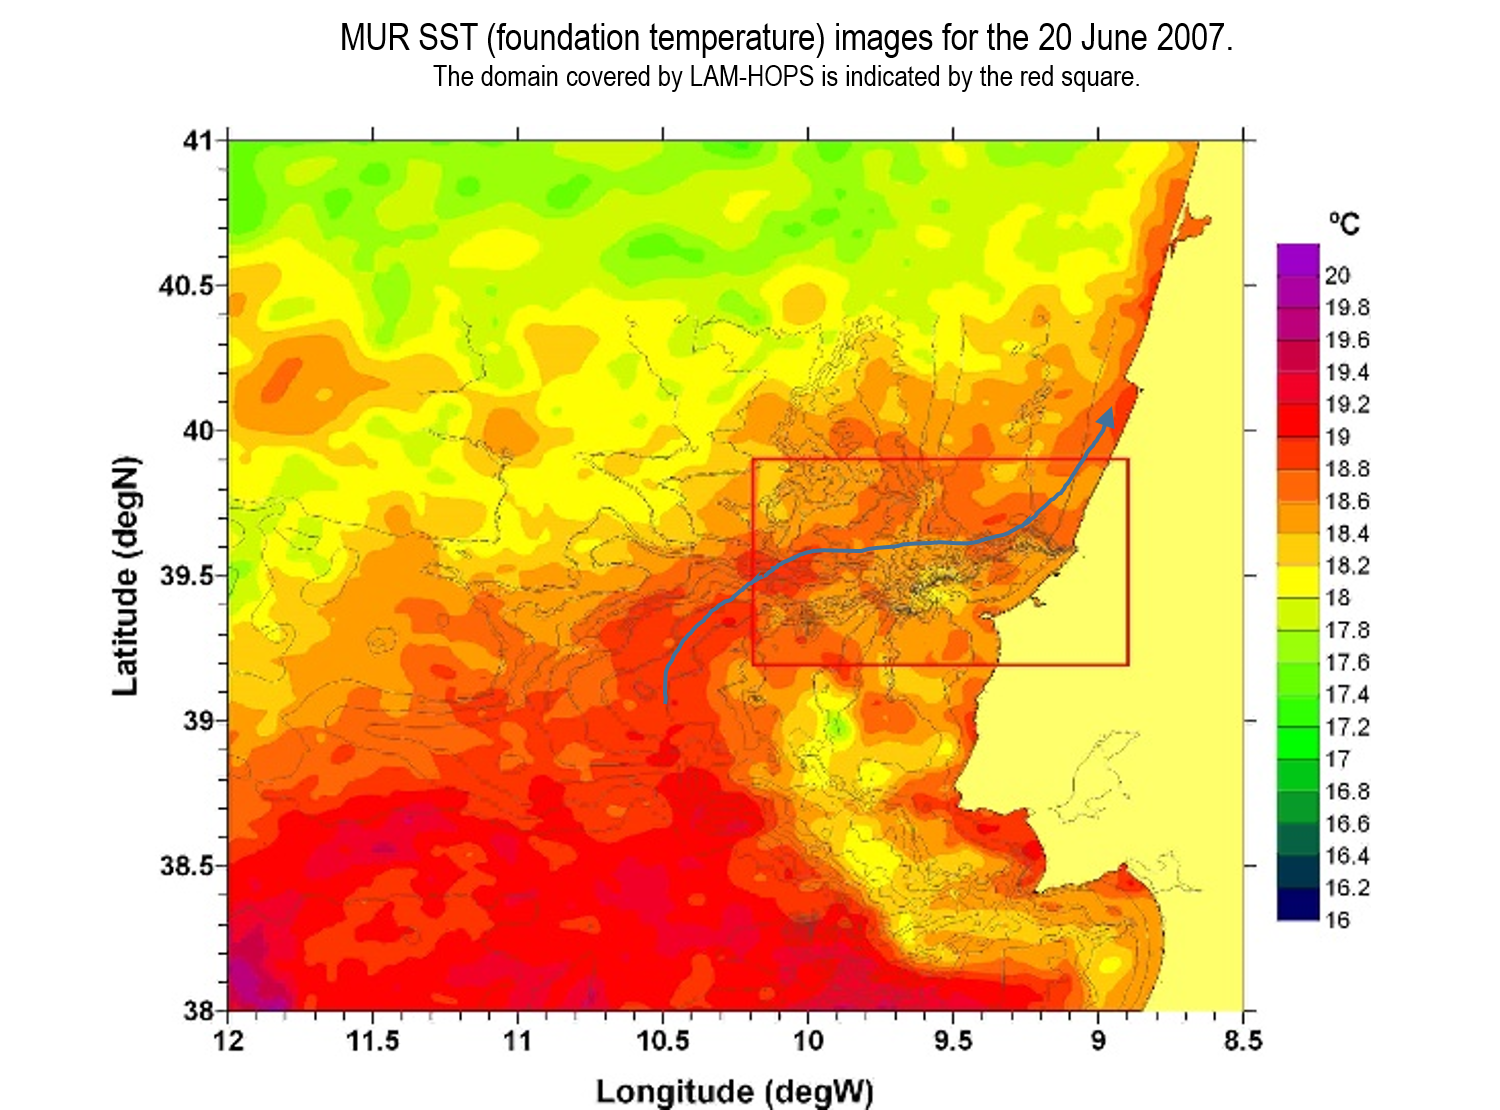
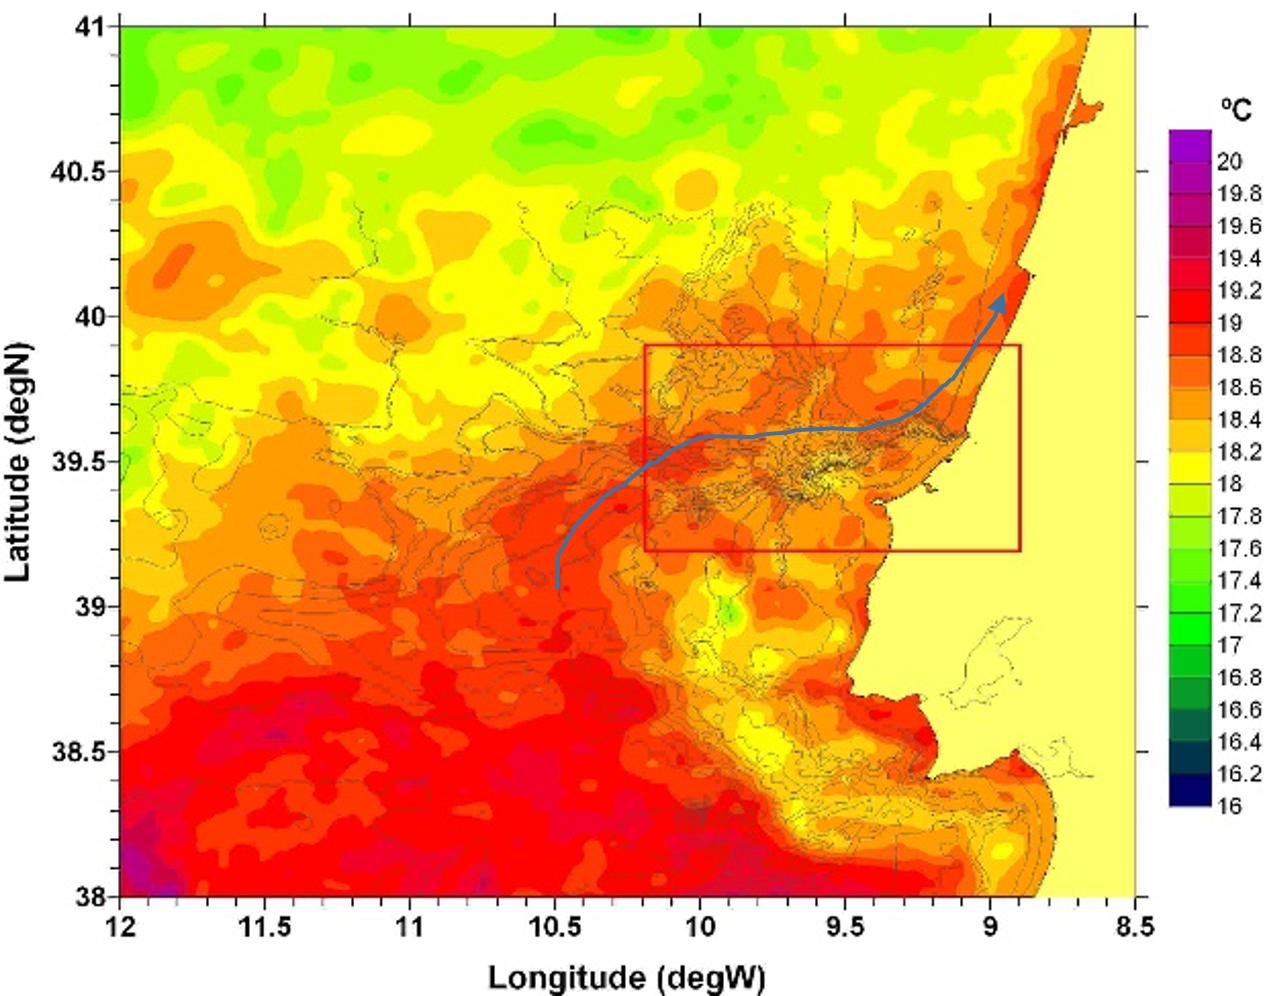
updates

diff --git a/mgmt.tex b/mgmt.tex
@@ -2,16 +2,15 @@
 
 This collaborative effort is in part to advance our understanding of
 the bio-geophysical processes in the \naz area, while advancing the
-observational technology and capacity in the coastal ocean. 
-
-\proj will be managed by the PI (Rajan, a US national) working closely
-with the collaborators from the \texttt{Univ. of Porto},
-\texttt{Instituto Hidrogr\'{a}fico}, \texttt{Univ. of Aveiro},
-\texttt{Columbia Univ.}, \texttt{MIT} and \texttt{SOCIB}.  All key
-personnel have known and worked with one another, most over a decade,
-some at sea. \univ will be the prime, where the PI has a Visiting
-Professor position. The roles and responsibilities of the key
-personnel are shown in Table \ref{tab:roles}.
+observational technology and capacity in the coastal ocean.  \proj
+will be managed by the PI (Rajan, a US national) working closely with
+the collaborators from the \texttt{Univ.~of Porto}, \texttt{Instituto
+  Hidrogr\'{a}fico}, \texttt{Univ.~of Aveiro}, \texttt{Columbia
+  Univ.}, \texttt{MIT} and \texttt{SOCIB}.  All key personnel have
+known and worked with one another, most over a decade, some at
+sea. \univ will be the prime, where the PI has a Visiting Professor
+position. The roles and responsibilities of the key personnel are
+shown in Table \ref{tab:roles}.
 
 \begin{table}[!t]
   \centering
@@ -55,36 +54,79 @@ personnel are shown in Table \ref{tab:roles}.
 organization, provide aerial, surface and underwater vehicles,
 communication equipment and command/control software while
 coordinating all activities. Funding requested will primarily support
-students and staff in Porto for software development and operations.
-\inst will provide the assimilation, modeling and prediction with
-shore-side models. In addition \inst will conduct CTD and vessel
-mounted observations onboard the research vessel and also provide
-access to their research vessel as well as a RHIB or rigid boat. \mit
-will support \inst for \texttt{HOPS} modeling and augmentation for ML
-capabilities. \colo and \ave will work on making bio-optical and
-biological measurements and providing analysis and data to augment
-\inst modeling. Table \ref{tab:roles} summarizes the roles and
-contributions of all partners.
+students and staff in Porto for the period of the experiment for
+$\sim 20$ days. \inst will provide the assimilation, modeling and
+prediction with shore-side models. In addition \inst will conduct CTD
+and vessel mounted observations onboard the research vessel and also
+provide access to their research vessel as well as a RHIB or rigid
+boat. \mit will support \inst for \texttt{HOPS} modeling and
+augmentation for ML capabilities. \colo and \ave will work on making
+bio-optical and biological measurements and providing analysis and
+data to augment \inst modeling. Table \ref{tab:roles} summarizes the
+roles and contributions of all partners.
 
+\paragraph{Budget Request} Our funding request is highly leveraged
+with equipment and people who are keen on participating in this
+experiment. No salaries, or expensive ship-times are being requested,
+instead using existing assets which will be in the \naz area for fixed
+periods of time. Consequently, our budget reflects costs for
+consumables, insurance, SatComs, and travel only. \univ is the primary
+beneficiary of this request with minor requests for \inste, \avee,
+\colo (Table \ref{tab:budget}). No funding is being requested for
+\mit or \soce.
 
-\subsection{Current Pending Project and Proposal Submissions}
+\begin{table}[!t]
+  \centering
+  % \vspace{-0.5cm}
+  \footnotesize{
+  \begin{tabular}{|p{3.3cm}|p{1.3cm}|p{1.4cm}|p{8cm}|}
+    % \multicolumn{1}{l}{r}{l}
+    \hline 
+    \rowcolor{Gray}
+    \bfseries Item& \bfseries Inst.&\bfseries Cost (\$) &\bfseries Comment\\
+    \hline
+    Small-boat rental&\univ&16,958&19-day rental\\
+    \hline
+    Semi-rigid small-boat&\inst&1,785&\inst small-boat transported
+                                       from Lisbon for ops with
+                                       research vessel\\
+    \hline    
+    Insurance (AUVs)&\univ&31,654&Insurance costs for 7 AUVs\\
+    \hline
+    Insurance (UAVs)&\univ&1,190&Insurance costs for 2 UAVs\\
+    \hline
+    Lodging&\univ&7,616&Costs for lodging in \naz area 8 personnel for 20 days\\
+    \hline
+    Subsistence&\univ&11,424&Costs for subsistence in \naz area for 8
+                              personnel for 20 days\\
+    \hline
+    Communication costs&\univ&11,870&SatComs for AUVs for 19
+                                      operational days\\
+    \hline
+    Rental Cars&\univ&7,140&Rental cars/vans for transporting
+                             equipment from Porto\\
+    \hline
+    Gas \& Tolls&\univ&1,179&\\
+    \hline
+    Consumables&\univ&10,710&\\
+    \hline    
+    Cellular Comms&\univ&893&\\
+    \hline    
+    Sample Processing&\ave&5,950&Biological water sample processing
+                                  during and post-experiment\\
+    \hline    
+    Sample Processing&\inst&1,190&Consumables for BGC water sample
+                                   analysis at \inst\\
+    \hline    
+    Travel from US&\colo \& \org&4,046&Travel from US and lodging for
+                                         Subramaniam \& Rajan\\
+    \hline
+    \multicolumn{1}{|r|}{\textbf{Total}}&&113,605&\\
+    \hline    
+  \end{tabular}
+  \caption{Budget details for \proj field experiment in USD.}
+  \label{tab:budget}
+}
+\end{table}
 
-No proposals related to \proj have been submitted to any US government
-agency. However, this proposal is in part to demonstrate a portion of
-a much larger concept in the form of the \met project\footnote{See US
-  National Academies 'Ocean Shot' presentation at
-  \url{https://vimeo.com/510346249}} which is being proposed to
-private philanthropies for funding. \met aims to provide a new
-paradigm of portable coastal ocean observation using space, aerial,
-surface and underwater vehicles, coupled to assimilative models.
-
-\subsection{Relevant Experience}
-
-% A description of the Offeror's Government contracts (both prime and
-% major subcontracts) received during the past three (3) years, which
-% are similar in nature to the effort being proposed.  Include contract
-% number and the name, phone number and email address of the technical
-% point of contact.  If necessary, add additional rows.
-
-The PI and co-PI do not have any current US govt. contracts or have
-had any US govt. contracts during the past 3 years.
+\input{ops}

diff --git a/ops.tex b/ops.tex
@@ -1,6 +1,4 @@
-\subsection{\proj Operations}
- 
-% Real-time monitoring systems:
+\subsection{Operational setting for \proj}
 
 Off shore in the \naz canyon-Berlengas area are two islands of Berlengas
 and Farilho\~es part of a protected nature preserve. With special
@@ -10,15 +8,20 @@ present onboard the \inst research vessel (Fig. \ref{fig:vessel}) where
 if needed, deployment and recovery of assets well off shore at the
 boundaries of the survey region, can be done. In addition \inst will be
 in a position to provide a RHIB or a rigid boat for near-shore
-operations from the two islands.
+operations from the two islands. \univ will provide the bulk of the
+robotic assets including aerial, surface and underwater vehicles as also
+the team to operate them. The team will be split between being based in
+Berlengas, the research vessel and also provide remote monitoring from
+Porto. \soc will provide at least one glider to operate outside the
+shelf to augment model observations in the meso-scale.
 
-\univ will provide the bulk of the robotic assets including aerial,
-surface and underwater vehicles as also the team to operate them. The
-team will be split between being based in Berlengas, the research vessel
-and also provide remote monitoring from Porto. \soc will provide at
-least one glider to operate outside the shelf to augment model
-observations in the meso-scale.
-
+% \begin{wrapfigure}{!h}{3.2in}
+%   \centering
+%   \includegraphics[scale=1.75]{fig/dom-carlos.jpg}
+%   \caption{A 70m research vessel, the NRP \emph{Dom Carlos} or its
+%     sister vessel will be available for \proje.}
+%  \label{fig:vessel}
+% \end{wrapfigure}
 
 \proj will leverage existing real-time monitoring capacities which were
 installed and are operated by Instituto Hidrogr\'{a}fico (\inste). These
@@ -32,15 +35,6 @@ time from one of the \inst research vessels which visit the \naz area
 for buoy maintenance twice yearly. \inst will provide access to this
 vessel where a small \proj team will be resident, in addition to those
 being housed in the Berlengas island.
-
-\begin{wrapfigure}{!h}{3.2in}
-  \centering
-  \includegraphics[scale=1.75]{fig/dom-carlos.jpg}
-  \caption{A 70m research vessel, the NRP \emph{Dom Carlos} or its
-    sister vessel will be available for \proje.}
- \label{fig:vessel}
-\end{wrapfigure}
-
 
 Each multiparametric buoy is equipped with:
 
@@ -86,7 +80,6 @@ inspired by the Rapid Environmental Assessment to navy operations
 \kc{citation?}. A summary of roles, tasks and activities of different
 elements in the project is summarized in Table \ref{tab:tasks}. A total
 of three phases (weeks 1 to 3) are planned:
-
 
 \begin{figure}[!t]
   \vspace{-0.5cm}
@@ -409,7 +402,6 @@ the \naz area for servicing buoys in that order:
 
 \end{itemize}  
 
-
 \paragraph{COVID protocol} As per standard oceanographic cruise
 protocol in current circumstances, we will follow the guidance of WHO
 and the US CDC; all personnel will isolate 5 days before the
@@ -418,3 +410,28 @@ pod. Those onboard the \inst research vessel will follow Portuguese
 Navy guidelines and also isolate prior to the cruise and have no
 contact with shore based personnel during the course of the
 experiment.
+
+
+\subsection{Current Pending Project and Proposal Submissions}
+
+No proposals related to \proj have been submitted to any US government
+agency. However, this proposal is in part to demonstrate a portion of
+a much larger concept in the form of the \met project\footnote{See US
+  National Academies 'Ocean Shot' presentation at
+  \url{https://vimeo.com/510346249}} which is being proposed to
+private philanthropies for funding. \met aims to provide a new
+paradigm of portable coastal ocean observation using space, aerial,
+surface and underwater vehicles, coupled to assimilative models.
+
+\subsection{Relevant Experience}
+
+% A description of the Offeror's Government contracts (both prime and
+% major subcontracts) received during the past three (3) years, which
+% are similar in nature to the effort being proposed.  Include contract
+% number and the name, phone number and email address of the technical
+% point of contact.  If necessary, add additional rows.
+
+The PI and co-PI do not have any current US govt. contracts or have
+had any US govt. contracts during the past 3 years.
+
+

diff --git a/outreach.tex b/outreach.tex
@@ -1,6 +1,6 @@
 \section{Outreach}
 
-\univ has had continued and extensive engagement over the years with the
+\inst has had continued and extensive engagement over the years with the
 local authorities including the \naz city officials and local fishermen.
 As a result we will engage the fishing community to carry our low cost
 temperature/density sensors and also help provide access to the team to
@@ -11,21 +11,21 @@ careers in science and technology, much as we have done in the past with
 success in another ONR funded
 program~\footnote{\url{https://sunfish.lsts.pt/en/outreach/education}}.
 
-With the world-wide interest in the area \proj will also work with the
-local authorities and \univ to showcase our work in Portuguese and
-English language media outlets. We will invite ONR sponsors and other
-ocean science sponsors from the US in the government and private
-philanthropies to observe the field experiment in-person if possible. We
-are also investigating ways in which portions of the experiment can be
-livestreamed and uploaded to Youtube. Imagery will be uploaded to
-Twitter, Facebook and Instagram as is routine at the \ls
-lab~\footnote{See \url{https://lsts.pt}} with appropriate context in
-both the Portuguese and English.
+With the world-wide interest in the \naz area, \proj will also work
+with the local authorities and \univ outreach department to showcase
+our work in Portuguese and English language media outlets. We will
+invite ONR and other ocean science sponsors from the US and government
+and private philanthropies to observe the field experiment, in-person
+if possible. We are also investigating ways in which portions of the
+experiment can be livestreamed and made available via Youtube. Imagery
+will be uploaded to Twitter, Facebook and Instagram as is routine at
+the \ls lab~\footnote{See \url{https://lsts.pt}} with appropriate
+context in both the Portuguese and English.
 
 Finally, publications resulting from the project will be targeted
 towards peer-reviewed journals including \emph{Science Robotics,
   J. Field Robotics, Int. J. of Robotics Research, AI Journal,
   Autonomous Robots, Oceanography, PLOSone, Frontiers} and high-impact
 conferences such as \emph{AAAI, IJCAI, ISER, ICAPS, RSS, IROS, ICRA
-  and IEEE AUV} where we have frequently published.
+  and IEEE AUV} where we have published frequently.
 

diff --git a/physics.tex b/physics.tex
@@ -1,14 +1,15 @@
 \subsection{Physics}
 
 \begin{wrapfigure}{!b}{4.0in}
-\vspace{-0.5cm}
-  \centering
-  \includegraphics[scale=0.40]{fig/model.jpeg}
-  \label{fig:model}
-  \caption{Predictions of currents and temperature at 10m depth from
-  a \texttt{HOPS} (Harvard Ocean Prediction System) model with
-  assimilation of temperature and salinity measurements collected by
-  CTD profiles and current-meters.}
+  \vspace{-0.5cm} \centering \subfigure[Predictions of currents and
+  temperature at 10m depth from a \texttt{HOPS} (Harvard Ocean
+  Prediction System) model with assimilation of temperature and
+  salinity measurements collected by CTD profiles and
+  current-meters.]{\label{fig:model}\includegraphics[scale=0.40]{fig/model.jpeg}}
+  \subfigure[MUR SST image for June 20\textsuperscript{th} 2007. The
+  red rectangle covers the area to be modeled in
+  HOPS.]{\label{fig:SST}\includegraphics[scale=0.40]{fig/SST-Nazare.png}}
+  \caption{}
 \vspace{-0.5cm}
 \end{wrapfigure}
 

diff --git a/background.tex b/background.tex
@@ -198,7 +198,10 @@ can be sustained in time leading to persistent upwelling conditions
   \caption{\subref{fig:po-map} \& \subref{fig:domain} show detailed
     views of the proposed study area for \proje off the coast of
     mainland Portugal. The \naz Canyon is a significant feature of
-    this area and a driver for the bio-geophysics of the domain.}
+    this area and a driver for the bio-geophysics of the domain. The
+    shaded blue area is the expected glider operations region which
+    will inform the model about boundary conditions and off-shore
+    waters being entrained into the canyon.}
   \label{fig:studyarea-1}
 \end{figure}
 

diff --git a/ai.tex b/ai.tex
@@ -35,7 +35,7 @@ underwater platforms with embedded or off-shore decision-making
 capacity which focus on the sense-plan-act control loop embedded on
 autonomous vehicles.
 
-\begin{table}[!b]
+\begin{table}[!t]
   \centering
   \footnotesize{
   \begin{tabular}{|p{1.8cm}|p{12.8cm}|p{0.75cm}|}\hline 

diff --git a/FRESNEL-21.tex b/FRESNEL-21.tex
@@ -15,8 +15,6 @@
 \input{background}
 \input{science}
 \input{mgmt}
-% \input{sow}
-\input{ops}
 \input{outreach}
 
 \bibliographystyle{IEEEtran}
